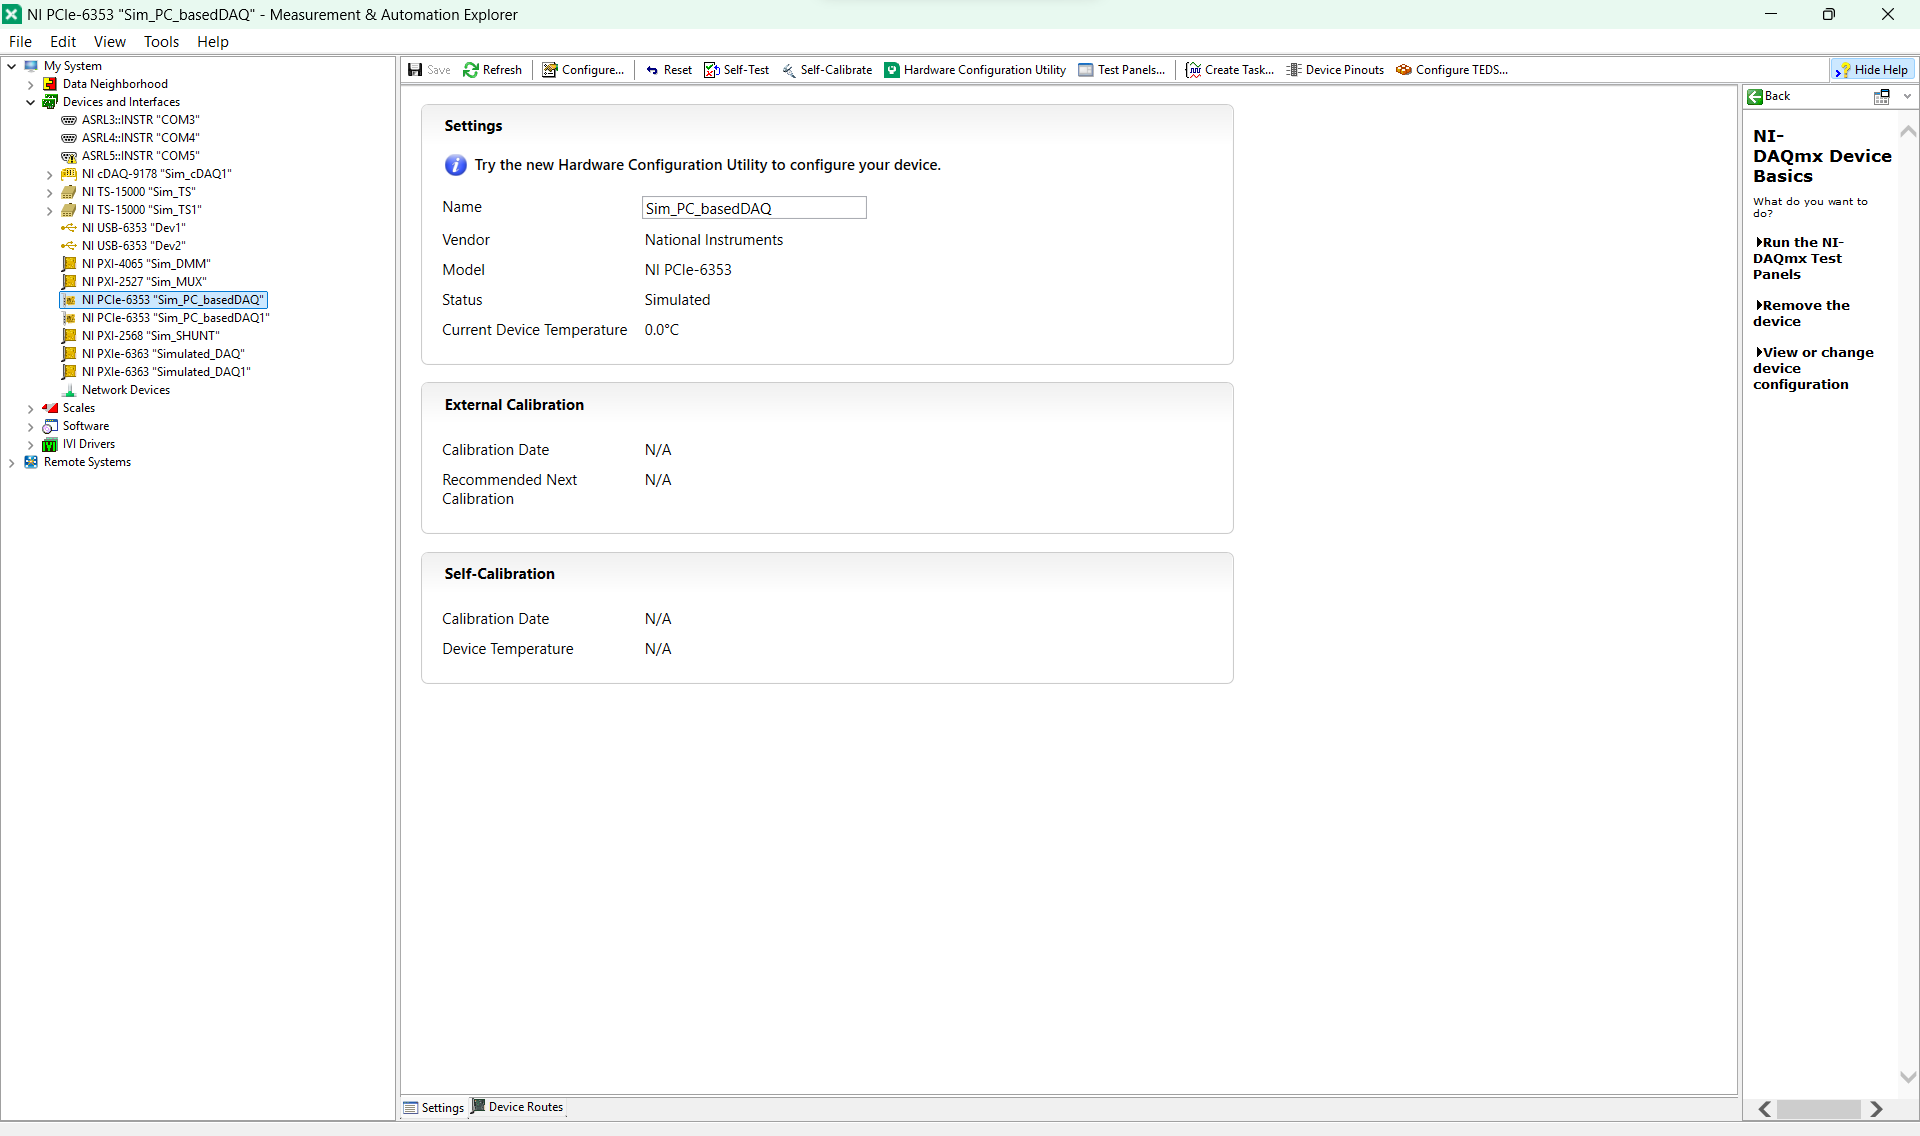
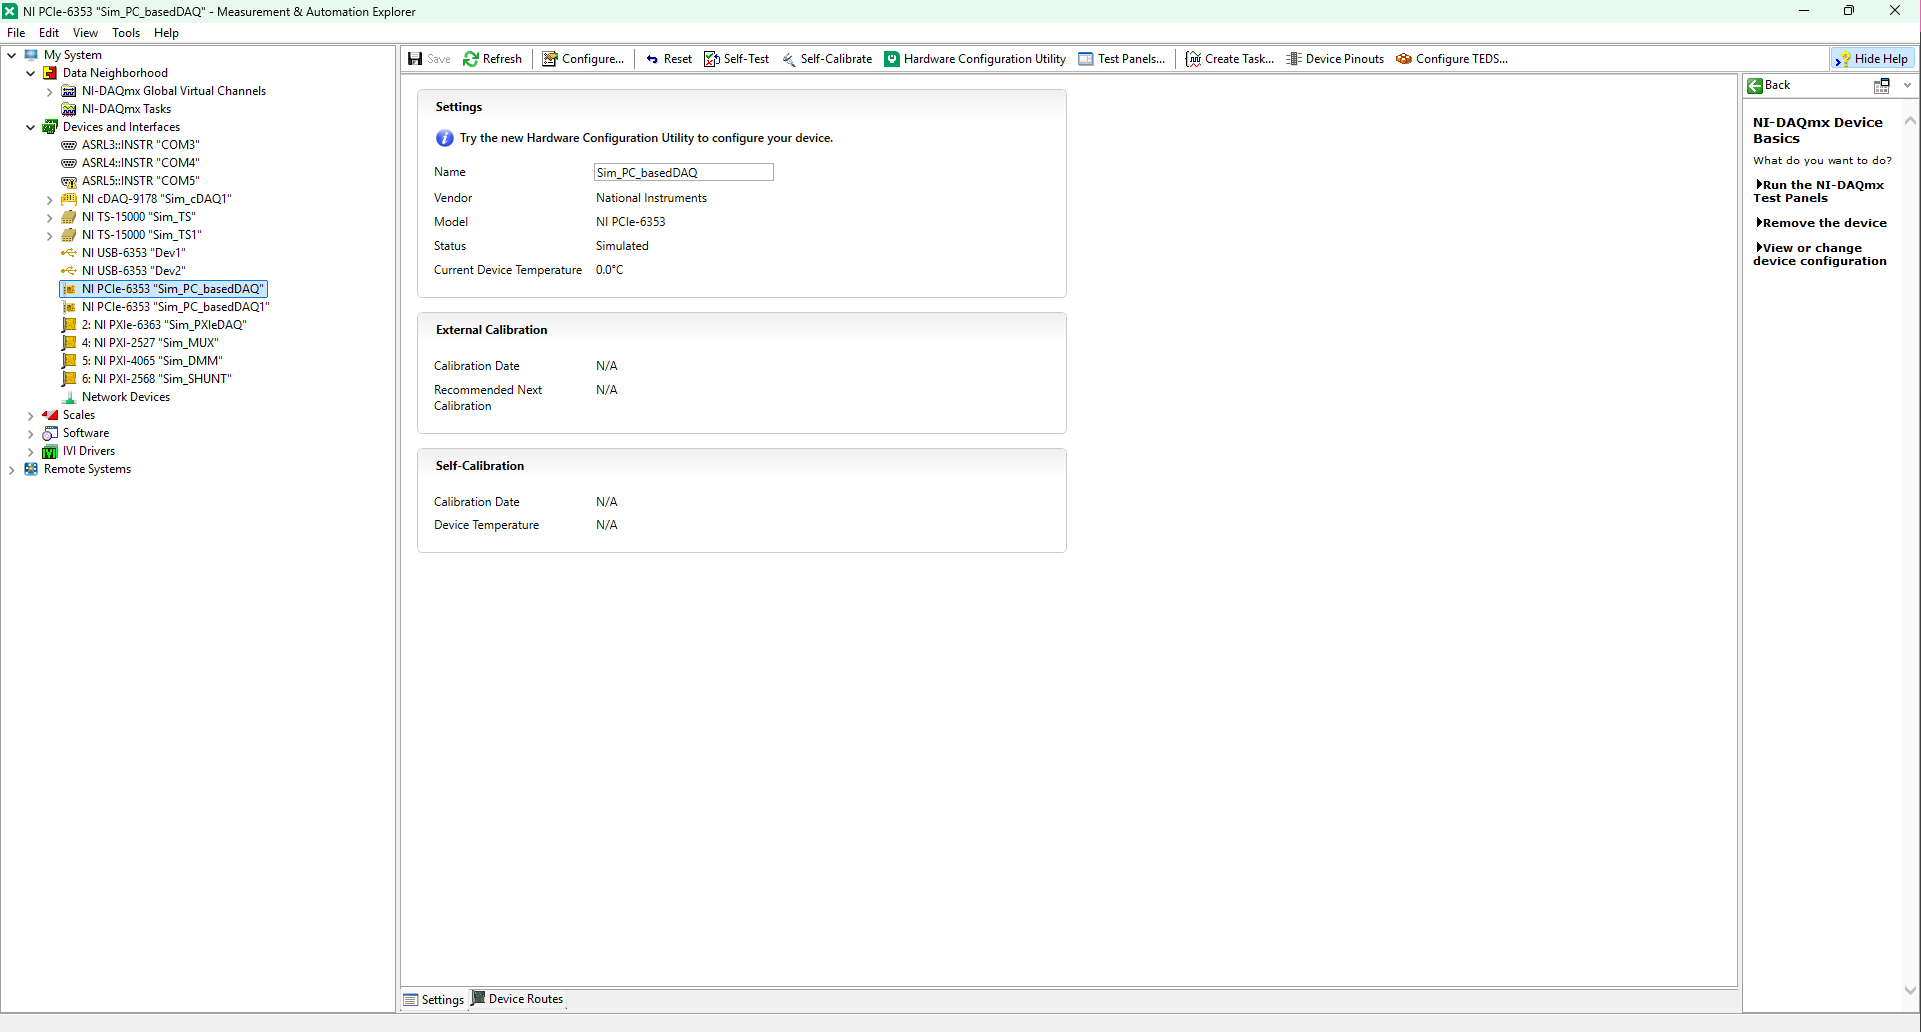
updated pmps loop

diff --git a/src/nipcbatt/pcbatt_validation_examples/DMM_SCAN_examples/dmm_loop_scan_pmps_example.py b/src/nipcbatt/pcbatt_validation_examples/DMM_SCAN_examples/dmm_loop_scan_pmps_example.py
@@ -1,8 +1,10 @@
 # pylint: disable=C0200, C0103, C0301
 
-"""This example executes a DMM Scan to obtain 3 voltage, 3 current,
-   and one resistance measurement. It returns both the formatted and
-   the raw measurements."""
+"""This example executes a DMM Scan in a loop 5 times with a 2 second
+   delay between iterations. Each iteration scans 3 voltage and 3 current
+   measurements and prints the results."""
+
+import time
 
 from nipcbatt import dmm
 from nipcbatt import dmm_scan
@@ -33,6 +35,8 @@ max_wait = 5000
 powerline_freq = 50
 close_all_shunts = True
 verbose = True # Set to False to not print measurements to console
+num_iterations = 5
+delay_between_iterations = 2  # seconds
 
 ############ EXECUTE SCAN ####################################################################
 
@@ -50,18 +54,18 @@ resources = scan.initialize(
     close_all_shunts
 )
 
-print('\n')
-
 # Execute scan loop
-for i in range(len(scan_configuration)):
+for i in range(num_iterations):
 
-    print(f"########################### LOOP {i + 1}  #######################################")
+    print(f"\n########################### ITERATION {i + 1} of {num_iterations} #######################################")
 
-    #convert single element to list for compatibility inside configure_and_measure
-    cfg = [scan_configuration[i]]
+    # Execute full scan
+    results = scan.configure_and_measure(resources, scan_configuration, close_all_shunts, verbose)
 
-    #execute measurement
-    results = scan.configure_and_measure(resources, cfg, close_all_shunts, verbose)
+    # Wait before next iteration (skip delay after last iteration)
+    if i < num_iterations - 1:
+        print(f"Waiting {delay_between_iterations} seconds before next iteration...")
+        time.sleep(delay_between_iterations)
 
 # Disconnect and close resources
 scan.close(resources)

diff --git a/tests/nipcbatt_tests/pcbatt_library_tests/signal_voltage_generations/test_signal_voltage_generation.py b/tests/nipcbatt_tests/pcbatt_library_tests/signal_voltage_generations/test_signal_voltage_generation.py
@@ -51,7 +51,7 @@ class TestSignalVoltageGeneration(unittest.TestCase):
         generation = nipcbatt.daq.SignalVoltageGeneration()
         # Test for Sine wave generation
         generation.initialize(
-            channel_expression="Simulated_DAQ/ao0:1"
+            channel_expression="Sim_PXIeDAQ/ao0:1"
         )
         generation.configure_and_generate_sine_waveform(
             configuration=nipcbatt.daq.DEFAULT_SIGNAL_VOLTAGE_GENERATION_SINE_WAVE_CONFIGURATION,
@@ -64,7 +64,7 @@ class TestSignalVoltageGeneration(unittest.TestCase):
         generation = nipcbatt.daq.SignalVoltageGeneration()
         # Test for Square wave generation
         generation.initialize(
-            channel_expression="Simulated_DAQ/ao0:1"
+            channel_expression="Sim_PXIeDAQ/ao0:1"
         )
         generation.configure_and_generate_square_waveform(
             configuration=nipcbatt.daq.DEFAULT_SQUARE_WAVE_GENERATION_CONFIGURATION,
@@ -78,7 +78,7 @@ class TestSignalVoltageGeneration(unittest.TestCase):
         generation = nipcbatt.daq.SignalVoltageGeneration()
         # Test for multi-tone sine wave generation
         generation.initialize(
-            channel_expression="Simulated_DAQ/ao0:1"
+            channel_expression="Sim_PXIeDAQ/ao0:1"
         )
         generation.configure_and_generate_multiple_tones_waveform(
             configuration=nipcbatt.daq.DEFAULT_MULTI_TONE_GENERATION_CONFIGURATION,

diff --git a/tests/nipcbatt_tests/pcbatt_library_tests/synchronizations/test_synchronization_signal_routing.py b/tests/nipcbatt_tests/pcbatt_library_tests/synchronizations/test_synchronization_signal_routing.py
@@ -101,7 +101,7 @@ class TestSynchronizationSignalRouting(unittest.TestCase):
         # Arrange
         with daq.SynchronizationSignalRouting() as synchronization_signal_routing:
             synchronization_signal_routing.task.ai_channels.add_ai_voltage_chan(
-                "Simulated_DAQ/ai0"
+                "Sim_PXIeDAQ/ai0"
             )
 
             synchronization_signal_routing.task.timing.cfg_samp_clk_timing(
@@ -112,7 +112,7 @@ class TestSynchronizationSignalRouting(unittest.TestCase):
 
             # Act
             synchronization_signal_routing.route_sample_clock_signal_to_terminal(
-                terminal_name="/Simulated_DAQ/PFI0"
+                terminal_name="/Sim_PXIeDAQ/PFI0"
             )
             # Assert
 
@@ -177,7 +177,7 @@ class TestSynchronizationSignalRouting(unittest.TestCase):
         # Arrange
         with daq.SynchronizationSignalRouting() as synchronization_signal_routing:
             synchronization_signal_routing.task.ai_channels.add_ai_voltage_chan(
-                "Simulated_DAQ/ai0"
+                "Sim_PXIeDAQ/ai0"
             )
 
             synchronization_signal_routing.task.timing.cfg_samp_clk_timing(

diff --git a/tests/nipcbatt_tests/pcbatt_library_integration_tests/dc_rms_current_measurements/test_integration_dc_rms_current_measurement.py b/tests/nipcbatt_tests/pcbatt_library_integration_tests/dc_rms_current_measurements/test_integration_dc_rms_current_measurement.py
@@ -55,7 +55,7 @@ class TestIntegrationDcRmsCurrentMeasurement(unittest.TestCase):
         with daq.DcRmsCurrentMeasurement() as measurement:
             measurement.initialize(
                 analog_input_channel_expression=(
-                    "Simulated_DAQ/ai0:3"
+                    "Sim_PXIeDAQ/ai0:3"
                 )
             )
 
@@ -96,7 +96,7 @@ class TestIntegrationDcRmsCurrentMeasurement(unittest.TestCase):
         with daq.DcRmsCurrentMeasurement() as measurement:
             measurement.initialize(
                 analog_input_channel_expression=(
-                    "Simulated_DAQ/ai0:3"
+                    "Sim_PXIeDAQ/ai0:3"
                 )
             )
 

diff --git a/tests/nipcbatt_tests/pcbatt_library_tests/digital_clock_generations/test_digital_clock_generation.py b/tests/nipcbatt_tests/pcbatt_library_tests/digital_clock_generations/test_digital_clock_generation.py
@@ -40,8 +40,8 @@ class TestDigitalClockGeneration(unittest.TestCase):
     def test_digital_clock_generation(self):
         """Checks if class 'DigitalClockGeneration' is ready to use"""  # noqa: D202, D415, W505 - No blank lines allowed after function docstring (auto-generated noqa), First line should end with a period, question mark, or exclamation point (auto-generated noqa), doc line too long (258 > 100 characters) (auto-generated noqa)
 
-        physical_channel = "Simulated_DAQ/ctr0"
-        output_terminal = "/Simulated_DAQ/PFI12"
+        physical_channel = "Sim_PXIeDAQ/ctr0"
+        output_terminal = "/Sim_PXIeDAQ/PFI12"
         timing_parameters = daq.DigitalClockGenerationTimingParameters(1.0)
         counter_parameters = daq.DigitalClockGenerationCounterChannelParameters(1000.0, 0.5)
         config = daq.DigitalClockGenerationConfiguration(counter_parameters, timing_parameters)

diff --git a/tests/nipcbatt_tests/pcbatt_library_tests/digital_frequency_measurements/test_digital_frequency_measurement.py b/tests/nipcbatt_tests/pcbatt_library_tests/digital_frequency_measurements/test_digital_frequency_measurement.py
@@ -56,8 +56,8 @@ class TestDigitalFrequencyMeasurement(unittest.TestCase):
 
         meas = DigitalFrequencyMeasurement()
         meas.initialize(
-            "Simulated_DAQ/ctr0",
-            "/Simulated_DAQ/PFI0",
+            "Sim_PXIeDAQ/ctr0",
+            "/Sim_PXIeDAQ/PFI0",
         )
         meas.configure_and_measure(test_config)
         meas.close()

diff --git a/tests/nipcbatt_tests/pcbatt_library_tests/digital_pulse_generations/test_digital_pulse_generation.py b/tests/nipcbatt_tests/pcbatt_library_tests/digital_pulse_generations/test_digital_pulse_generation.py
@@ -20,8 +20,8 @@ from nipcbatt.pcbatt_library.daq.digital_pulse_generations.digital_pulse_generat
     DigitalPulseGeneration,
 )
 
-CHANNEL = "Simulated_DAQ/ctr0"
-TERMINAL = "/Simulated_DAQ/PFI0"
+CHANNEL = "Sim_PXIeDAQ/ctr0"
+TERMINAL = "/Sim_PXIeDAQ/PFI0"
 
 
 class TestDigitalPulseGeneration(unittest.TestCase):

diff --git a/tests/nipcbatt_tests/pcbatt_library_tests/dynamic_digital_pattern_generations/test_dynamic_digital_pattern_generation.py b/tests/nipcbatt_tests/pcbatt_library_tests/dynamic_digital_pattern_generations/test_dynamic_digital_pattern_generation.py
@@ -15,9 +15,9 @@ from nipcbatt.pcbatt_library.common.common_data_types import (
     DynamicDigitalPatternTimingParameters,
 )
 
-CHANNEL = "Simulated_DAQ/port0/line0:7"
+CHANNEL = "Sim_PXIeDAQ/port0/line0:7"
 CLOCK_SOURCE = "OnboardClock"
-TRIGGER_SOURCE = "/Simulated_DAQ/PFI0"
+TRIGGER_SOURCE = "/Sim_PXIeDAQ/PFI0"
 
 
 class TestDynamicDigitalPatternGeneration(unittest.TestCase):

diff --git a/tests/nipcbatt_tests/pcbatt_library_tests/dynamic_digital_pattern_measurements/test_dynamic_digital_pattern_measurement.py b/tests/nipcbatt_tests/pcbatt_library_tests/dynamic_digital_pattern_measurements/test_dynamic_digital_pattern_measurement.py
@@ -55,7 +55,7 @@ class TestDynamicDigitalPatternMeasurement(unittest.TestCase):
     def test_dynamic_digital_pattern_measurement(self):
         """Checks if class 'DynamicDigitalPatternMeasurement' is ready for use"""  # noqa: D415, W505 - First line should end with a period, question mark, or exclamation point (auto-generated noqa), doc line too long (192 > 100 characters) (auto-generated noqa)
         meas = daq.DynamicDigitalPatternMeasurement()
-        meas.initialize("Simulated_DAQ/port0/line0:7")
+        meas.initialize("Sim_PXIeDAQ/port0/line0:7")
         timing_parameters = DynamicDigitalPatternTimingParameters(
             sample_clock_source="OnboardClock",
             sampling_rate_hertz=10000.0,
@@ -64,7 +64,7 @@ class TestDynamicDigitalPatternMeasurement(unittest.TestCase):
         )
         trigger_parameters = DigitalStartTriggerParameters(
             trigger_select=daq.ConstantsForDynamicDigitalPatternMeasurement.DEFAULT_TRIGGER_TYPE,
-            digital_start_trigger_source="/Simulated_DAQ/PFI0",
+            digital_start_trigger_source="/Sim_PXIeDAQ/PFI0",
             digital_start_trigger_edge=daq.ConstantsForDynamicDigitalPatternMeasurement.DEFAULT_DIGITAL_START_TRIGGER_EDGE,
         )
         configuration = daq.DynamicDigitalPatternMeasurementConfiguration(

diff --git a/src/nipcbatt/pcbatt_validation_examples/DMM_examples/dc_rms_voltage_measurement/PXI_HW_trigger_delay_voltage_measurement.py b/src/nipcbatt/pcbatt_validation_examples/DMM_examples/dc_rms_voltage_measurement/PXI_HW_trigger_delay_voltage_measurement.py
@@ -14,7 +14,7 @@ from nipcbatt.pcbatt_utilities.pcbatt_logger import PcbattLogger
 def main():
     # Initialize SVG and DMM
     svg = daq.SignalVoltageGeneration()
-    svg.initialize(channel_expression="Simulated_DAQ/ao0")
+    svg.initialize(channel_expression="Sim_PXIeDAQ/ao0")
 
     dmm_voltage_measurement = dmm.DcRmsVoltageMeasurement()
     dmm_voltage_measurement.initialize("Sim_DMM", 50.0)

diff --git a/tests/nipcbatt_tests/pcbatt_library_tests/dc_rms_current_measurements/test_dc_rms_current_measurement.py b/tests/nipcbatt_tests/pcbatt_library_tests/dc_rms_current_measurements/test_dc_rms_current_measurement.py
@@ -50,7 +50,7 @@ class TestDcRmsCurrentMeasurement(unittest.TestCase):
     def test_dc_rms_current_measurement(self):
         """Tests for the proper flow of DC-RMS Current Measurement"""  # noqa: D415, W505 - First line should end with a period, question mark, or exclamation point (auto-generated noqa), doc line too long (180 > 100 characters) (auto-generated noqa)
         measurement = daq.DcRmsCurrentMeasurement()
-        measurement.initialize(analog_input_channel_expression="Simulated_DAQ/ai0:2")
+        measurement.initialize(analog_input_channel_expression="Sim_PXIeDAQ/ai0:2")
         measurement.configure_and_measure(
             configuration=daq.DEFAULT_DC_RMS_CURRENT_MEASUREMENT_CONFIGURATION
         )

diff --git a/tests/nipcbatt_tests/pcbatt_library_tests/dc_rms_voltage_measurements/test_dc_rms_voltage_measurement.py b/tests/nipcbatt_tests/pcbatt_library_tests/dc_rms_voltage_measurements/test_dc_rms_voltage_measurement.py
@@ -51,7 +51,7 @@ class TestDcRmsVoltageMeasurement(unittest.TestCase):
         """Checks if class DcRmsVoltageMeasurement is ready to use"""  # noqa: D415, W505 - First line should end with a period, question mark, or exclamation point (auto-generated noqa), doc line too long (180 > 100 characters) (auto-generated noqa)
         with daq.DcRmsVoltageMeasurement() as measurement:
             measurement.initialize(
-                analog_input_channel_expression="Simulated_DAQ/ai0"
+                analog_input_channel_expression="Sim_PXIeDAQ/ai0"
             )
 
             measurement.configure_and_measure(